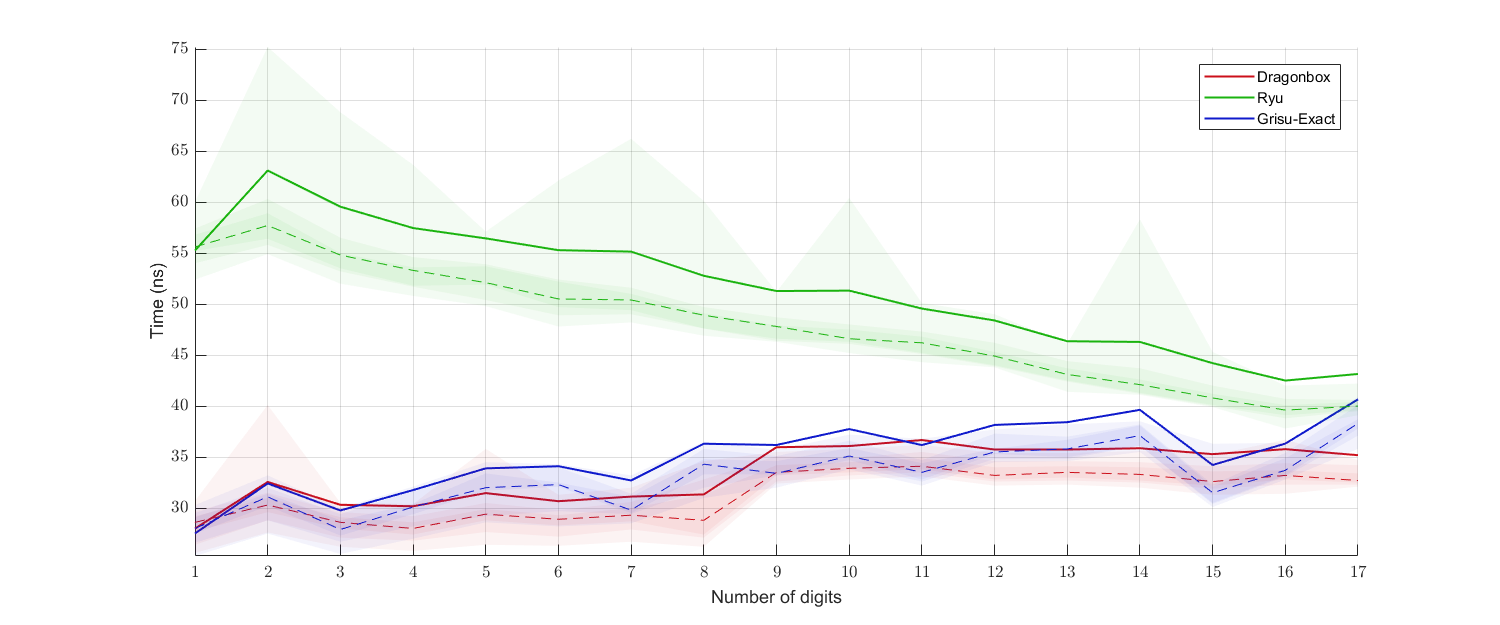
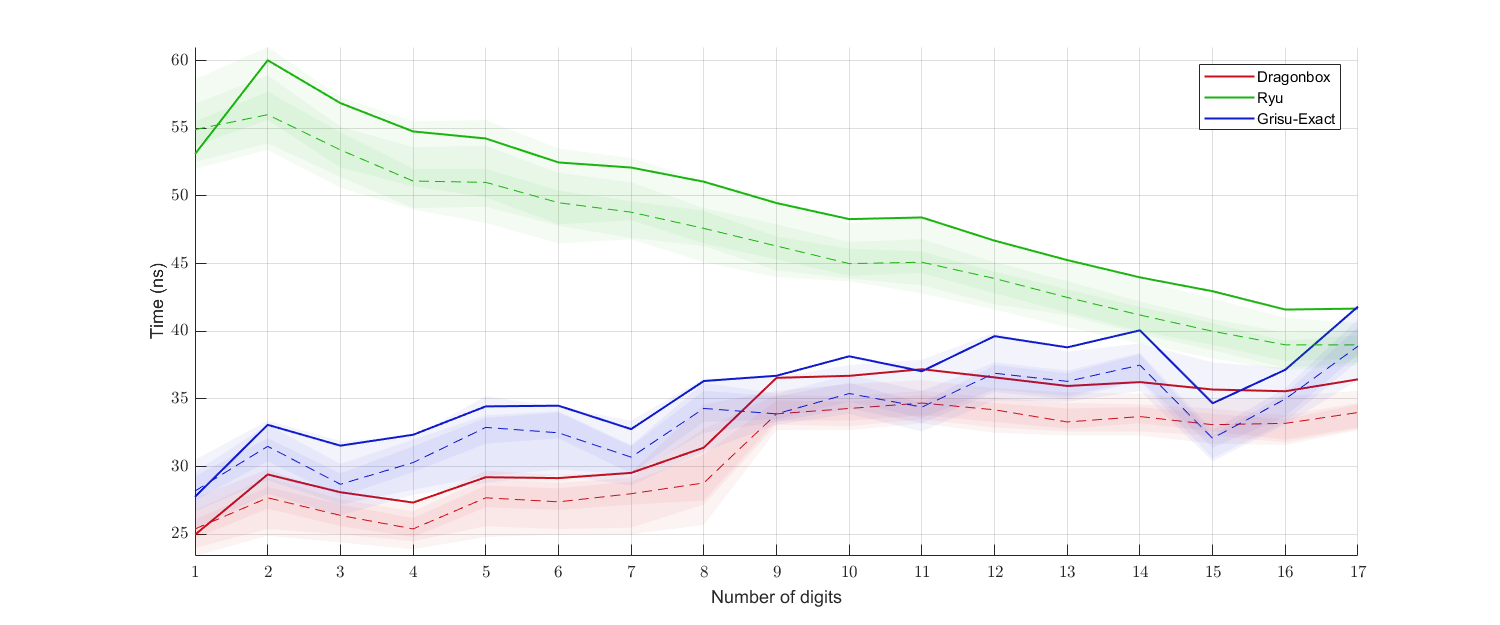
Rerun benchmarks (msvc)

diff --git a/benchmark/dragonbox.cpp b/benchmark/dragonbox.cpp
@@ -31,9 +31,9 @@ namespace {
 			jkj::dragonbox::rounding_modes::nearest_to_even{},
 			jkj::dragonbox::correct_rounding::tie_to_even{});
 	}
-	/*register_function_for_benchmark dummy("Dragonbox",
+	register_function_for_benchmark dummy("Dragonbox",
 		dragonbox_float_to_chars,
-		dragonbox_double_to_chars);*/
+		dragonbox_double_to_chars);
 
 	void dragonbox_wo_tzremoval_float_to_chars(float x, char* buffer)
 	{
@@ -47,7 +47,7 @@ namespace {
 			jkj::dragonbox::rounding_modes::nearest_to_even{},
 			jkj::dragonbox::correct_rounding::tie_to_even{});
 	}
-	register_function_for_benchmark dummy2("Dragonbox (w/o trailing zero removal)",
+	/*register_function_for_benchmark dummy2("Dragonbox (w/o trailing zero removal)",
 		dragonbox_wo_tzremoval_float_to_chars,
-		dragonbox_wo_tzremoval_double_to_chars);
+		dragonbox_wo_tzremoval_double_to_chars);*/
 }

diff --git a/tests/main.cpp b/tests/main.cpp
@@ -34,7 +34,7 @@ extern void generate_cache();
 extern void verify_magic_division();
 
 // Check if the fast multiplication algorithm for the closer boundary case is correct
-#define VERIFY_FAST_MULTIPLICATION
+//#define VERIFY_FAST_MULTIPLICATION
 extern void verify_fast_multiplication();
 
 // Check if the fast multiplication algorithm for the closer boundary case is correct
@@ -86,7 +86,7 @@ extern void live_test_double();
 extern void misc_test();
 
 // Do benchmark for binary32
-//#define BENCHMARK_TEST_FLOAT
+#define BENCHMARK_TEST_FLOAT
 static std::size_t number_of_uniform_benchmark_samples_float = 1000000;
 static std::size_t number_of_digits_benchmark_samples_per_digits_float = 100000;
 static std::size_t number_of_benchmark_iterations_float = 1000;

diff --git a/benchmark/grisu_exact.cpp b/benchmark/grisu_exact.cpp
@@ -31,7 +31,7 @@ namespace {
 			jkj::grisu_exact_rounding_modes::nearest_to_even{},
 			jkj::grisu_exact_correct_rounding::tie_to_even{});
 	}
-	/*register_function_for_benchmark dummy("Grisu-Exact",
+	register_function_for_benchmark dummy("Grisu-Exact",
 		grisu_exact_float_to_chars,
-		grisu_exact_double_to_chars);*/
+		grisu_exact_double_to_chars);
 }

diff --git a/benchmark/schubfach.cpp b/benchmark/schubfach.cpp
@@ -26,5 +26,5 @@ namespace {
 	void schubfach_64(double x, char* buf) {
 		schubfach::Dtoa(buf, x);
 	}
-	register_function_for_benchmark dummy("Schubfach", schubfach_32, schubfach_64);
+	//register_function_for_benchmark dummy("Schubfach", schubfach_32, schubfach_64);
 }

diff --git a/benchmark/ryu.cpp b/benchmark/ryu.cpp
@@ -19,5 +19,5 @@
 #include "ryu/ryu.h"
 
 namespace {
-	//register_function_for_benchmark dummy("Ryu", f2s_buffered, d2s_buffered);
+	register_function_for_benchmark dummy("Ryu", f2s_buffered, d2s_buffered);
 }
